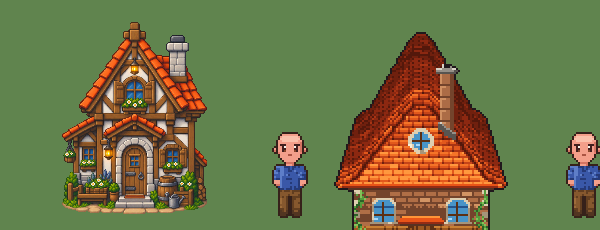
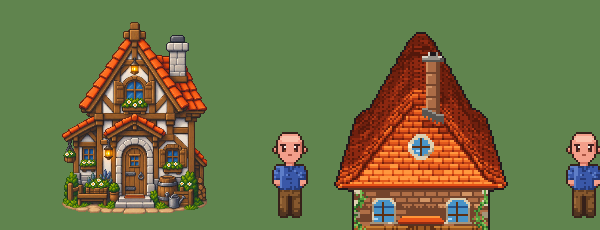
굴뚝을 지붕 한가운데, 용마루 바로 밑으로
앞 지붕 아래쪽에 세우면 벽에 붙인 관으로 보이고, 가장자리면 지붕에서
흘러내린 것처럼 보인다. 용마루 가까이 **가운데**여야 「지붕에 난 굴뚝」이다.
다락창은 세 칸 내려 굴뚝 발과 안 겹치게 했다.

밑동도 두 번 고쳤다:
- 빗변 기울기(약 1:1)를 그대로 썼더니 일곱 칸에 여섯 줄이 떨어져서 밑동이
  **잘려 나간 것처럼** 보였다. 절반(0.5)이면 지붕을 따라간다는 건 읽히면서
  굴뚝은 여전히 곧게 서 있다
- 납판을 줄 몇 개 겹쳐 그렸더니 굴뚝 옆에 **기대 놓은 막대**처럼 흩어졌다.
  양옆으로 두 칸씩 나온 네 줄짜리 앞치마 **한 덩어리**로 그리니, 밑변만
  기울어져도 형태가 안 흩어진다

Changed region(s): [[0.66, 0.213, 0.78, 0.7]]

diff --git a/game/assets/ref/make_buildings.js b/game/assets/ref/make_buildings.js
@@ -716,8 +716,10 @@ function chimney(g, x, top, base) {
   //
   // 수평으로 자르면 굴뚝만 딴 평면에 서 있는 것처럼 보인다. 굴뚝은
   // 비스듬한 면을 뚫고 나온 것이라, 오른쪽으로 갈수록 발이 내려가야 한다.
-  // 기울기는 지붕 빗변에서 그대로 가져왔다 (한 칸 오른쪽 = 한 칸 아래).
-  const SLOPE = 0.85;
+  // 빗변 기울기(약 1:1)를 그대로 쓰면 일곱 칸에 여섯 줄이 떨어져서 밑동이
+  // **잘려 나간 것처럼** 보인다. 절반이면 「지붕을 따라간다」는 읽히면서
+  // 굴뚝은 여전히 곧게 서 있다.
+  const SLOPE = 0.5;
   const foot = xx => base + Math.round((Math.max(x, Math.min(x1, xx)) - x) * SLOPE);
 
   // 몸통 — 세로 세 톤. 폭이 일곱 칸(화면 14px)뿐이라 벽돌 한 장은 안 읽힌다.
@@ -749,14 +751,16 @@ function chimney(g, x, top, base) {
   // 않게 납판을 둘러 댄다. 이 치마가 굴뚝을 지붕에 앉힌다.
   // 밝은 회색으로 넓게 둘렀더니 지붕 위에 붙인 딱지가 됐다 — 납판은
   // 이음매지 장식이 아니다. 어둡고 좁아야 「끼워 넣은 자리」로 읽힌다.
-  for (let xx = x - 1; xx <= x1 + 1; xx++) {
+  // 치마는 **한 덩어리로** 그린다. 줄 몇 개를 겹쳐 놓았더니 굴뚝 옆에
+  // 기대 놓은 막대처럼 흩어져 보였다. 양옆으로 두 칸씩 나온 네 줄짜리
+  // 앞치마 하나면, 밑변만 지붕을 따라 기울어져도 형태가 안 흩어진다.
+  for (let xx = x - 2; xx <= x1 + 2; xx++) {
     const b = foot(xx);
-    g.px(xx, b - 2, 'p4');
-    g.px(xx, b - 1, 'p5'); g.px(xx, b, 'p5');
-    if (xx === x) g.px(xx, b - 2, 'p3');                    // 윗줄 왼쪽만 빛
+    g.vline(xx, b - 3, b, 'p5');
+    g.px(xx, b - 3, 'p4');                                  // 윗변 한 줄만 빛
     // 밑단은 톱니로 끊는다. 일자로 그으면 얹어 놓은 판이 되고,
     // 한 칸씩 물리면 기와 사이로 밀어 넣은 것처럼 보인다
-    g.vline(xx, b + 1, b + ((xx + b) % 3 === 0 ? 2 : 1), 'p5');
+    if ((xx + b) % 3 === 0) g.px(xx, b + 1, 'p5');
   }
   // 지붕에 드리운 그림자 — 기와 **톤 사다리를 몇 단 아래로 밀어** 준다.
   // 색을 직접 칠하면 나중에 도는 기와 패스가 그대로 덮어쓴다
@@ -765,7 +769,7 @@ function chimney(g, x, top, base) {
       if (roofT[y + 2] && roofT[y + 2][x1 + d] >= 0)
         roofT[y + 2][x1 + d] = Math.min(1, roofT[y + 2][x1 + d] + (d < 3 ? 0.30 : 0.15));
   // 납판 밑에도 — **발과 같이 비스듬히** 내려간다
-  for (let xx = x - 1; xx <= x1 + 4; xx++)
+  for (let xx = x - 2; xx <= x1 + 5; xx++)
     for (let d = 0; d < 6; d++) {
       const yy = foot(xx) + 3 + d;
       if (roofT[yy] && roofT[yy][xx] >= 0)
@@ -807,13 +811,16 @@ function build(spec) {
   // 박공 벽은 안 그린다 — 이 집은 지붕이 **앞을 보고** 있어서 삼각 벽면이
   // 나올 자리가 없다. 그렸더니 지붕 위에 크림색 삼각형이 덧칠됐다.
   roof(g, X0 - JUT - 3, X1 + JUT + 3, RIDGE, EAVE);
-  roundWin(g, CX, RIDGE + 17, 6);                          // 다락창
+  roundWin(g, CX, RIDGE + 20, 6);                          // 다락창 (굴뚝 발과 안 겹치게)
 
   extrude(g);                                              // 뒤로 눕는 지붕
   // 굴뚝은 **뒤를 붙인 뒤에.** 앞 지붕면에 세우면 벽기둥처럼 보인다 —
   // 뒤로 누운 면에서 솟아야 굴뚝으로 읽힌다
   if (spec.chimney !== false)
-    chimney(g, spec.chimneyX || X1 - 20, RIDGE - 20, RIDGE + 10);
+    // 자리는 **지붕 한가운데 언저리, 용마루 바로 밑.** 앞 지붕 아래쪽에
+    // 세우면 벽에 붙인 관으로 보이고, 가장자리에 세우면 지붕에서 흘러내린
+    // 것처럼 보인다. 용마루 가까이 가운데여야 「지붕에 난 굴뚝」이 된다
+    chimney(g, spec.chimneyX || CX + 3, RIDGE - 26, RIDGE + 4);
 
   // ---- 살림 (뒷면 뒤에 — 앞에 놓인 것들이라 묻히면 안 된다) ----
   lantern(g, CX - 13, MID + 8);
